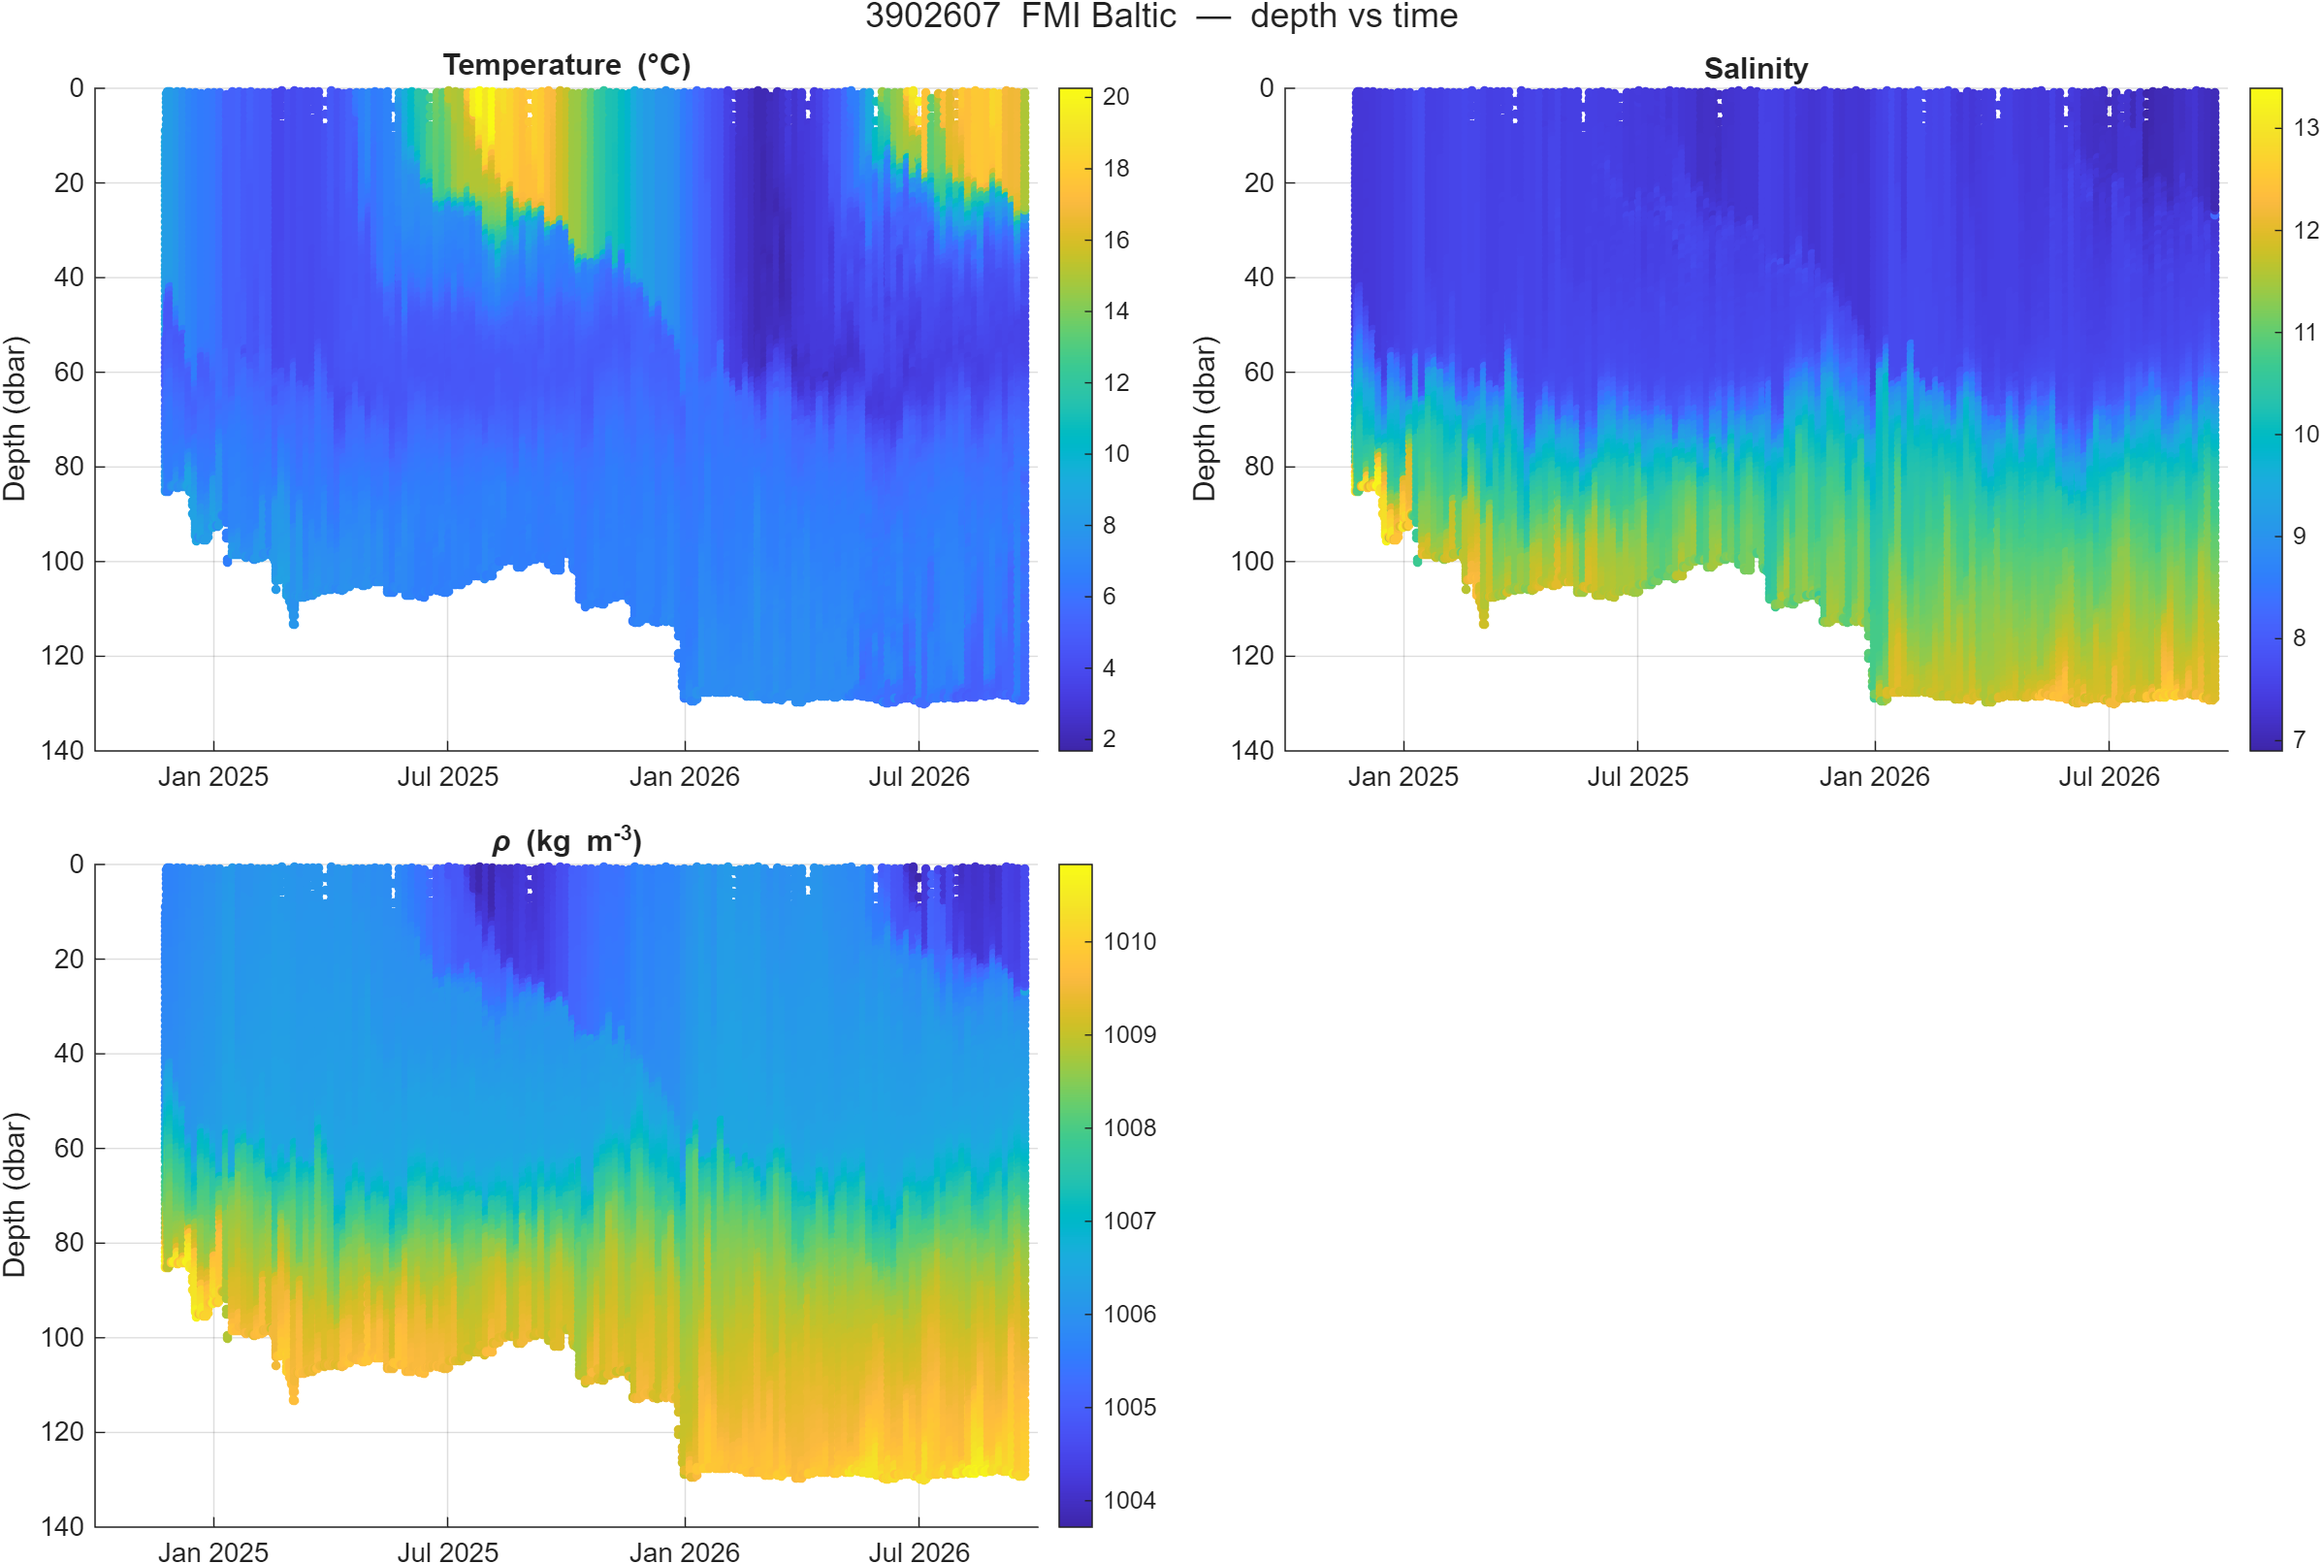
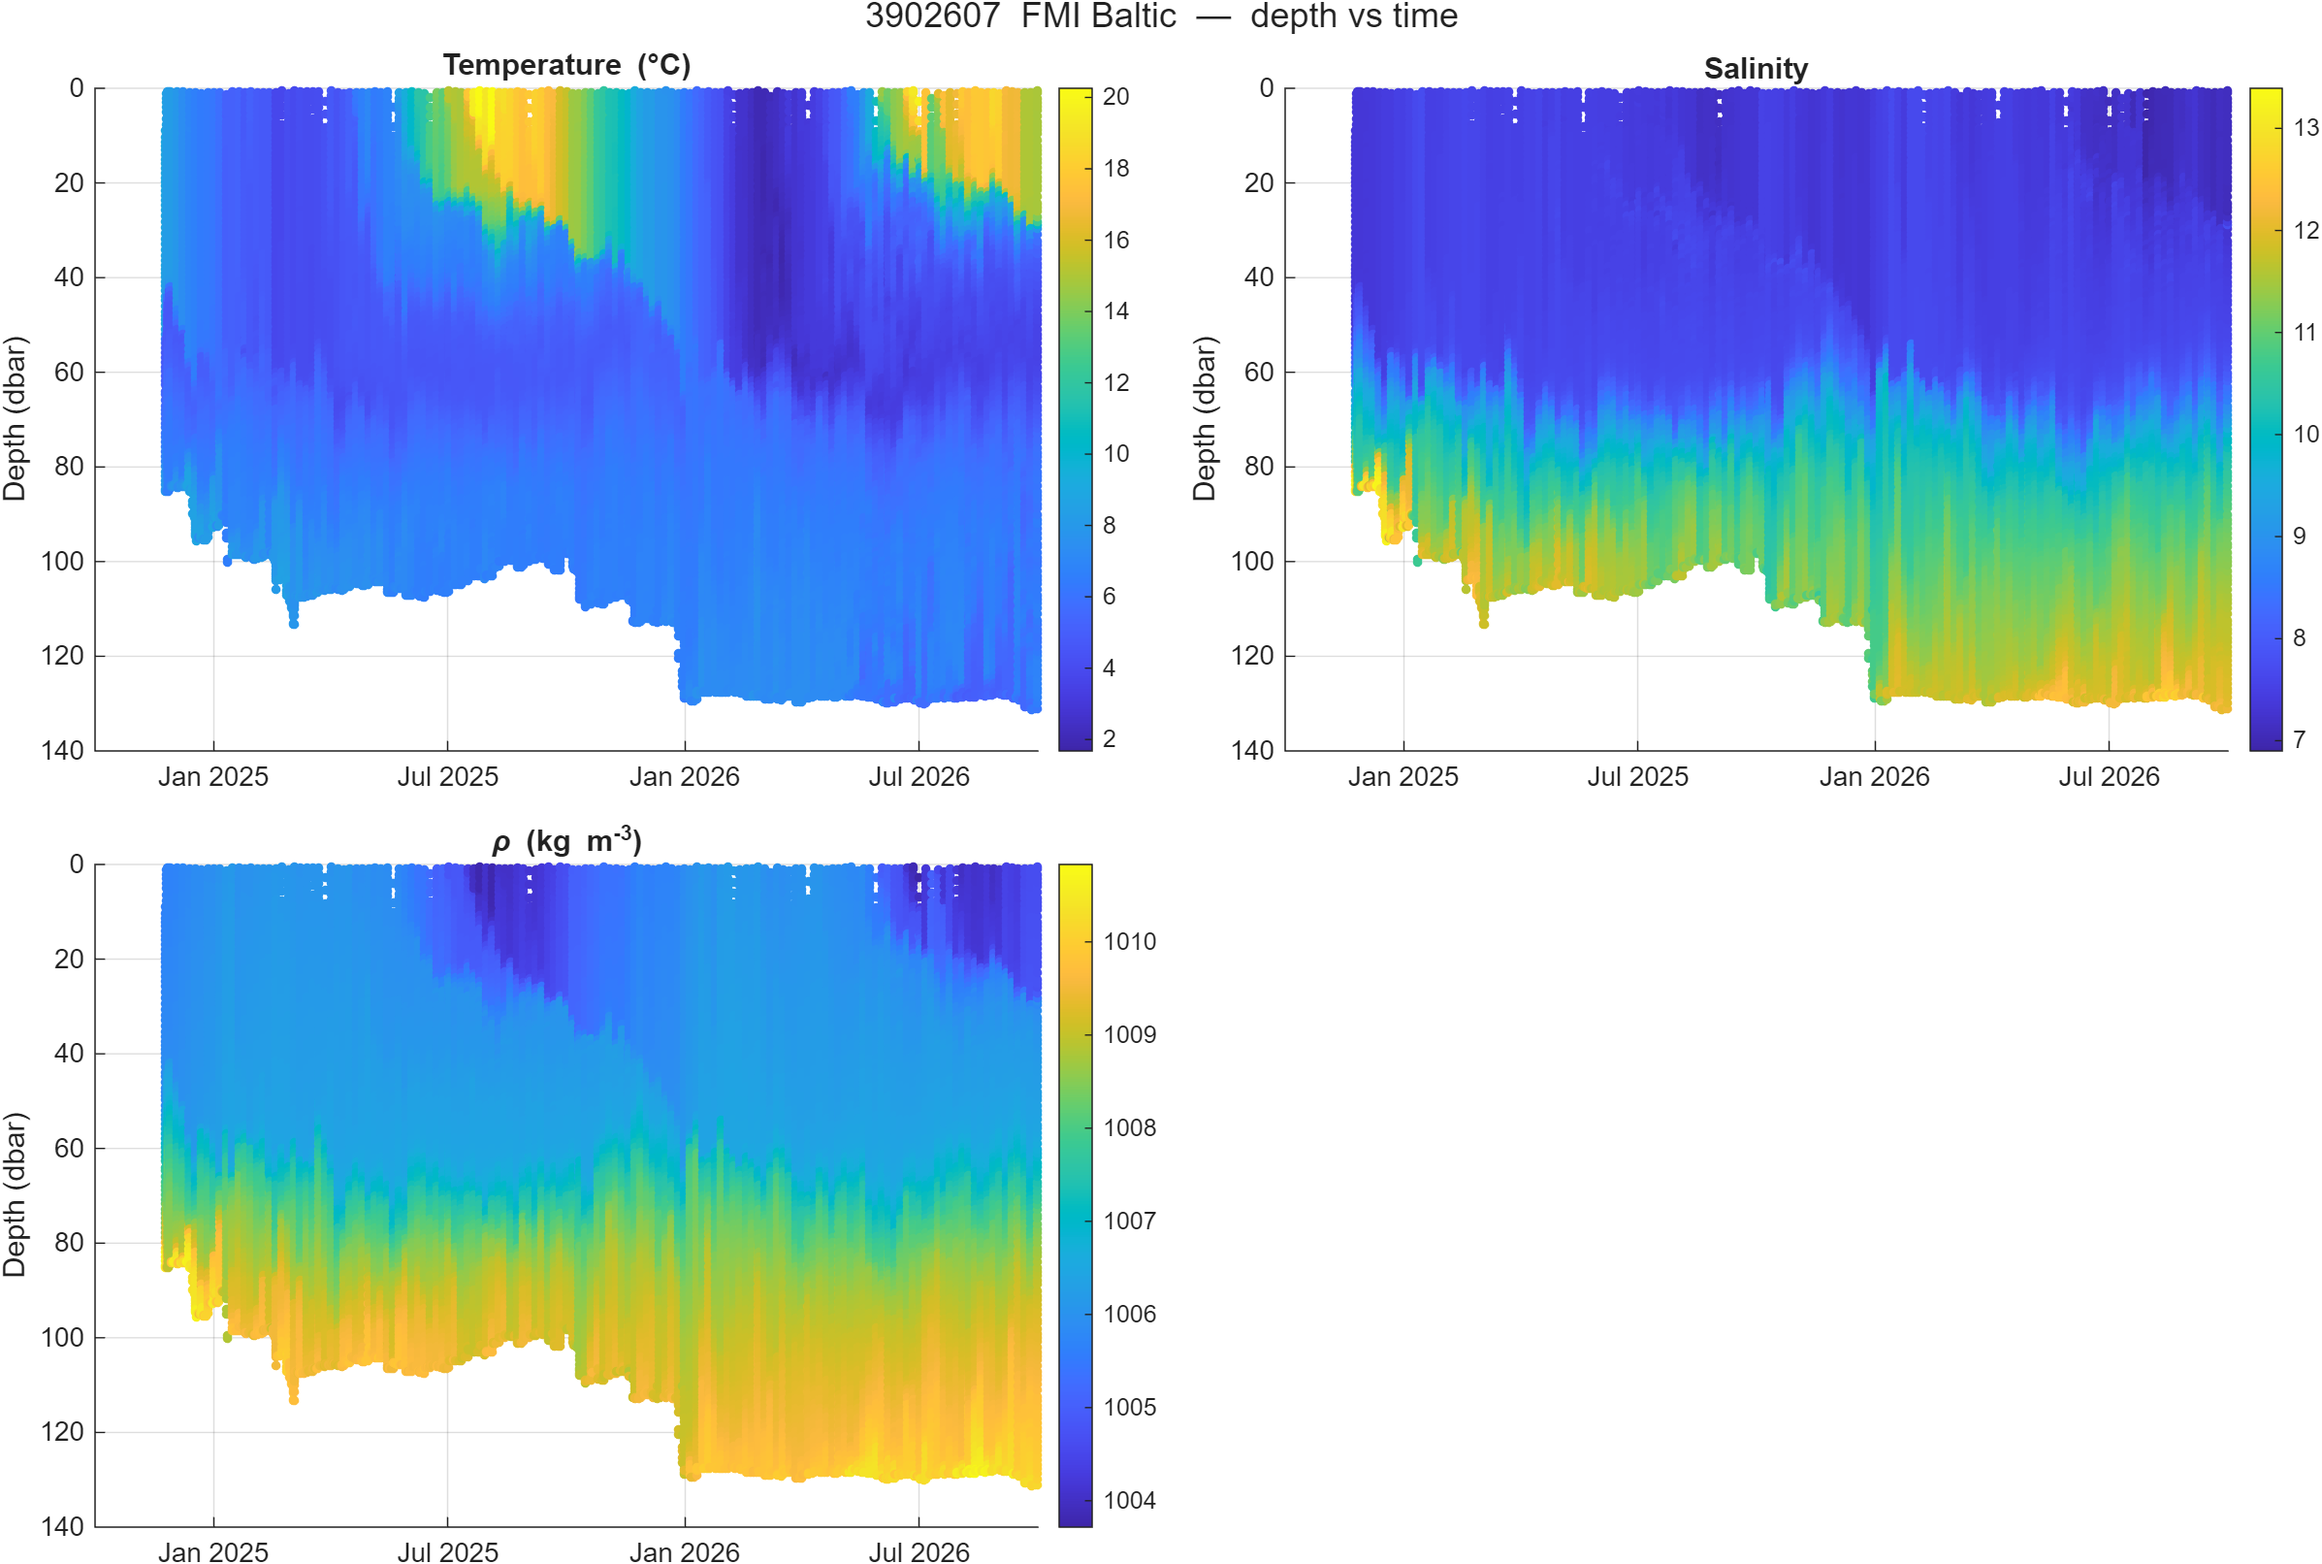
data update

diff --git a/data.js b/data.js
@@ -15,7 +15,7 @@
 //   graphs        [{label, src}, ...] figures for the fold-out
 //   notes         free text from floats_config.csv
 
-const floatUpdated = "2026-09-29 11:45";
+const floatUpdated = "2026-10-03 00:18";
 
 const floatData = [
   {
@@ -27,15 +27,15 @@ const floatData = [
     "region": "greenland",
     "status": "active",
     "status_note": "",
-    "latitude": 69.9829,
-    "longitude": -18.4608,
-    "location": "69.983° N, 18.461° W",
+    "latitude": 69.9366,
+    "longitude": -18.4865,
+    "location": "69.937° N, 18.486° W",
     "deployment_date": "2025-05-27",
-    "last_surface": "2026-09-22 15:10",
-    "days_since": 6.9,
-    "next_surface": "2026-09-27 14:10",
+    "last_surface": "2026-10-02 13:07",
+    "days_since": 0.5,
+    "next_surface": "2026-10-07 12:07",
     "next_surface_source": "nke cycle period",
-    "n_profiles": 100,
+    "n_profiles": 102,
     "track": [
       [
         71.7159,
@@ -444,6 +444,14 @@ const floatData = [
       [
         69.9829,
         -18.4608
+      ],
+      [
+        69.9635,
+        -18.4717
+      ],
+      [
+        69.9366,
+        -18.4865
       ]
     ],
     "trajectory": "assets/plots/3902677/3902677_map.png",
@@ -453,8 +461,8 @@ const floatData = [
         "src": "assets/plots/3902677/3902677_sections.png"
       },
       {
-        "label": "Profile 100  (2026-09-22)",
-        "src": "assets/plots/3902677/3902677_profile_100_2026-09-22.png"
+        "label": "Profile 102  (2026-10-02)",
+        "src": "assets/plots/3902677/3902677_profile_102_2026-10-02.png"
       }
     ],
     "notes": "sheet lists SBD+GDAC"
@@ -468,15 +476,15 @@ const floatData = [
     "region": "greenland",
     "status": "active",
     "status_note": "",
-    "latitude": 67.5215,
-    "longitude": -19.9175,
-    "location": "67.522° N, 19.918° W",
+    "latitude": 67.5419,
+    "longitude": -20.0225,
+    "location": "67.542° N, 20.023° W",
     "deployment_date": "2025-02-10",
-    "last_surface": "2026-09-24 12:37",
-    "days_since": 5,
-    "next_surface": "2026-09-29 11:37",
+    "last_surface": "2026-09-29 12:10",
+    "days_since": 3.5,
+    "next_surface": "2026-10-04 11:10",
     "next_surface_source": "nke cycle period",
-    "n_profiles": 121,
+    "n_profiles": 122,
     "track": [
       [
         67.3361,
@@ -969,6 +977,10 @@ const floatData = [
       [
         67.5215,
         -19.9175
+      ],
+      [
+        67.5419,
+        -20.0225
       ]
     ],
     "trajectory": "assets/plots/6990657/6990657_map.png",
@@ -978,8 +990,8 @@ const floatData = [
         "src": "assets/plots/6990657/6990657_sections.png"
       },
       {
-        "label": "Profile 121  (2026-09-24)",
-        "src": "assets/plots/6990657/6990657_profile_121_2026-09-24.png"
+        "label": "Profile 122  (2026-09-29)",
+        "src": "assets/plots/6990657/6990657_profile_122_2026-09-29.png"
       }
     ],
     "notes": "RBR CTD"
@@ -998,7 +1010,7 @@ const floatData = [
     "location": "78.691° N, 11.255° W",
     "deployment_date": "2025-08-04",
     "last_surface": "2026-09-01 04:35",
-    "days_since": 28.3,
+    "days_since": 31.8,
     "next_surface": "2026-09-06 03:35",
     "next_surface_source": "nke cycle period",
     "n_profiles": 81,
@@ -1362,15 +1374,15 @@ const floatData = [
     "region": "greenland",
     "status": "active",
     "status_note": "",
-    "latitude": 73.6405,
-    "longitude": -13.3154,
-    "location": "73.640° N, 13.315° W",
+    "latitude": 73.383,
+    "longitude": -13.7216,
+    "location": "73.383° N, 13.722° W",
     "deployment_date": "2025-10-30",
-    "last_surface": "2026-09-23 09:01",
-    "days_since": 6.1,
-    "next_surface": "2026-09-28 08:01",
+    "last_surface": "2026-09-28 07:54",
+    "days_since": 4.7,
+    "next_surface": "2026-10-03 06:54",
     "next_surface_source": "nke cycle period",
-    "n_profiles": 66,
+    "n_profiles": 67,
     "track": [
       [
         81.3966,
@@ -1647,13 +1659,21 @@ const floatData = [
       [
         73.6405,
         -13.3154
+      ],
+      [
+        73.383,
+        -13.7216
       ]
     ],
     "trajectory": "assets/plots/7902329/7902329_map.png",
     "graphs": [
       {
-        "label": "Profile 075  (2026-09-18)",
-        "src": "assets/plots/7902329/7902329_profile_075_2026-09-18.png"
+        "label": "Depth vs time",
+        "src": "assets/plots/7902329/7902329_sections.png"
+      },
+      {
+        "label": "Profile 077  (2026-09-28)",
+        "src": "assets/plots/7902329/7902329_profile_077_2026-09-28.png"
       }
     ],
     "notes": "ODEN2025 (North Pole deployment); pre-deployment Denmark test dropped via deploy_date"
@@ -1667,15 +1687,15 @@ const floatData = [
     "region": "greenland",
     "status": "active",
     "status_note": "",
-    "latitude": 77.3335,
-    "longitude": -70.6314,
-    "location": "77.333° N, 70.631° W",
+    "latitude": 77.3322,
+    "longitude": -70.7248,
+    "location": "77.332° N, 70.725° W",
     "deployment_date": "2025-08-13",
-    "last_surface": "2026-09-24 02:24",
-    "days_since": 5.4,
-    "next_surface": "2026-09-29 01:24",
+    "last_surface": "2026-09-29 01:19",
+    "days_since": 4,
+    "next_surface": "2026-10-04 00:19",
     "next_surface_source": "nke cycle period",
-    "n_profiles": 62,
+    "n_profiles": 63,
     "track": [
       [
         77.3953,
@@ -1936,6 +1956,10 @@ const floatData = [
       [
         77.3335,
         -70.6314
+      ],
+      [
+        77.3322,
+        -70.7248
       ]
     ],
     "trajectory": "assets/plots/2903998/2903998_map.png",
@@ -1945,8 +1969,8 @@ const floatData = [
         "src": "assets/plots/2903998/2903998_sections.png"
       },
       {
-        "label": "Profile 083  (2026-09-24)",
-        "src": "assets/plots/2903998/2903998_profile_083_2026-09-24.png"
+        "label": "Profile 084  (2026-09-28)",
+        "src": "assets/plots/2903998/2903998_profile_084_2026-09-28.png"
       }
     ],
     "notes": ""
@@ -1960,15 +1984,15 @@ const floatData = [
     "region": "greenland",
     "status": "active",
     "status_note": "",
-    "latitude": 74.3408,
-    "longitude": -20.325,
-    "location": "74.341° N, 20.325° W",
+    "latitude": 74.3304,
+    "longitude": -20.3108,
+    "location": "74.330° N, 20.311° W",
     "deployment_date": "2025-08-17",
-    "last_surface": "2026-09-22 17:20",
-    "days_since": 6.8,
-    "next_surface": "2026-10-02 12:20",
+    "last_surface": "2026-10-02 12:29",
+    "days_since": 0.5,
+    "next_surface": "2026-10-12 07:29",
     "next_surface_source": "nke cycle period",
-    "n_profiles": 41,
+    "n_profiles": 42,
     "track": [
       [
         74.3939,
@@ -2145,6 +2169,10 @@ const floatData = [
       [
         74.3408,
         -20.325
+      ],
+      [
+        74.3304,
+        -20.3108
       ]
     ],
     "trajectory": "assets/plots/2903997/2903997_map.png",
@@ -2154,8 +2182,8 @@ const floatData = [
         "src": "assets/plots/2903997/2903997_sections.png"
       },
       {
-        "label": "Profile 042  (2026-09-22)",
-        "src": "assets/plots/2903997/2903997_profile_042_2026-09-22.png"
+        "label": "Profile 043  (2026-10-02)",
+        "src": "assets/plots/2903997/2903997_profile_043_2026-10-02.png"
       }
     ],
     "notes": ""
@@ -2169,15 +2197,15 @@ const floatData = [
     "region": "denmark",
     "status": "active",
     "status_note": "",
-    "latitude": 56.3253,
-    "longitude": 19.3861,
-    "location": "56.325° N, 19.386° E",
+    "latitude": 56.3237,
+    "longitude": 19.4083,
+    "location": "56.324° N, 19.408° E",
     "deployment_date": "2024-11-25",
-    "last_surface": "2026-09-20 17:39",
-    "days_since": 8.8,
-    "next_surface": "2026-09-25 12:39",
+    "last_surface": "2026-09-30 07:53",
+    "days_since": 2.7,
+    "next_surface": "2026-10-05 02:53",
     "next_surface_source": "nke cycle period",
-    "n_profiles": 143,
+    "n_profiles": 145,
     "track": [
       [
         55.4992,
@@ -2754,6 +2782,14 @@ const floatData = [
       [
         56.3253,
         19.3861
+      ],
+      [
+        56.3264,
+        19.4007
+      ],
+      [
+        56.3237,
+        19.4083
       ]
     ],
     "trajectory": "assets/plots/3902607/3902607_map.png",
@@ -2763,8 +2799,8 @@ const floatData = [
         "src": "assets/plots/3902607/3902607_sections.png"
       },
       {
-        "label": "Profile 143  (2026-09-20)",
-        "src": "assets/plots/3902607/3902607_profile_143_2026-09-20.png"
+        "label": "Profile 145  (2026-09-30)",
+        "src": "assets/plots/3902607/3902607_profile_145_2026-09-30.png"
       }
     ],
     "notes": "RBR CTD; pre-deployment July-2024 fix dropped via deploy_date"
@@ -2783,7 +2819,7 @@ const floatData = [
     "location": "55.201° N, 9.752° E",
     "deployment_date": "2026-06-23",
     "last_surface": "2026-09-25 17:38",
-    "days_since": 3.8,
+    "days_since": 7.3,
     "next_surface": "2026-09-30 16:29",
     "next_surface_source": "median cycle interval",
     "n_profiles": 20,
@@ -2891,15 +2927,15 @@ const floatData = [
     "region": "denmark",
     "status": "active",
     "status_note": "",
-    "latitude": 54.9867,
-    "longitude": 10.2286,
-    "location": "54.987° N, 10.229° E",
+    "latitude": 54.9862,
+    "longitude": 10.2284,
+    "location": "54.986° N, 10.228° E",
     "deployment_date": "2026-06-24",
-    "last_surface": "2026-09-23 01:41",
-    "days_since": 6.4,
-    "next_surface": "2026-09-28 01:37",
+    "last_surface": "2026-09-28 01:36",
+    "days_since": 4.9,
+    "next_surface": "2026-10-03 01:31",
     "next_surface_source": "median cycle interval",
-    "n_profiles": 19,
+    "n_profiles": 20,
     "track": [
       [
         54.9864,
@@ -2976,6 +3012,10 @@ const floatData = [
       [
         54.9867,
         10.2286
+      ],
+      [
+        54.9862,
+        10.2284
       ]
     ],
     "trajectory": "assets/plots/Sgav_provor/Sgav_provor_map.png",
@@ -2985,8 +3025,8 @@ const floatData = [
         "src": "assets/plots/Sgav_provor/Sgav_provor_sections.png"
       },
       {
-        "label": "Profile 019  (2026-09-23)",
-        "src": "assets/plots/Sgav_provor/Sgav_provor_profile_019_2026-09-23.png"
+        "label": "Profile 020  (2026-09-28)",
+        "src": "assets/plots/Sgav_provor/Sgav_provor_profile_020_2026-09-28.png"
       }
     ],
     "notes": "BGC+RAMSES+SUNA; needs external SGAV_provor tree beside pipeline (FTP+APMTDecoder); set active=true to re-run"
@@ -2999,13 +3039,13 @@ const floatData = [
     "sensors": "bgc",
     "region": "denmark",
     "status": "inactive",
-    "status_note": "no transmission for 450 days — no next surfacing predicted",
+    "status_note": "no transmission for 454 days — no next surfacing predicted",
     "latitude": 55.1358,
     "longitude": 14.5121,
     "location": "55.136° N, 14.512° E",
     "deployment_date": "2023-11-07",
     "last_surface": "2025-07-06 10:58",
-    "days_since": 450,
+    "days_since": 453.6,
     "next_surface": "",
     "next_surface_source": "",
     "n_profiles": 190,
